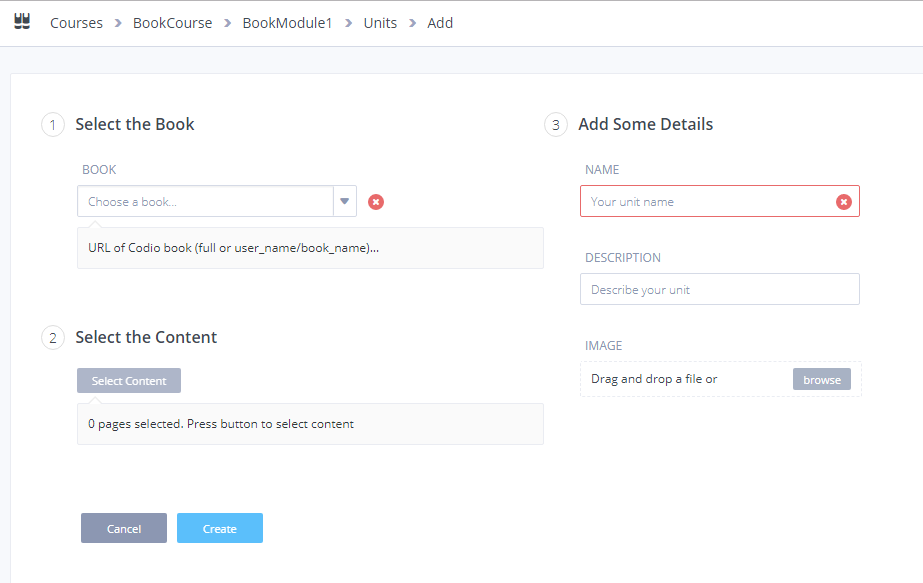
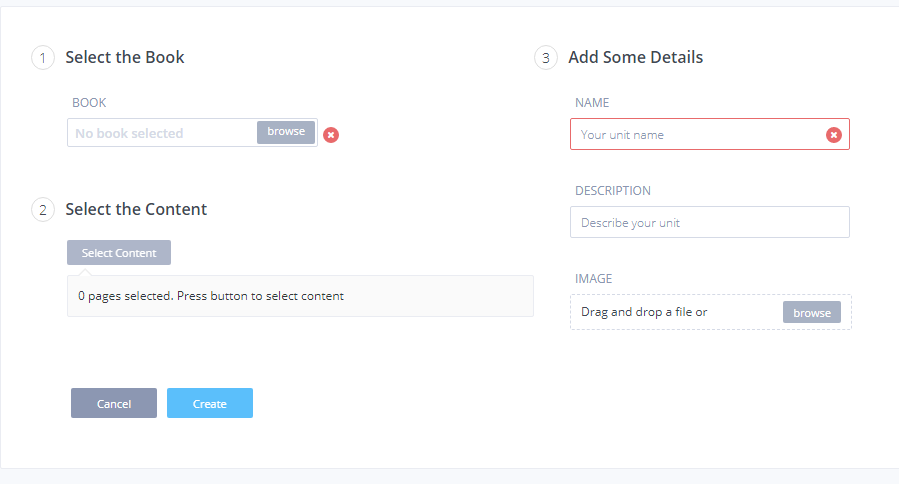
#9228 #9283 #9171 #9172 #9044

diff --git a/source/docs/content/authoring/settings-actions/global.html.md b/source/docs/content/authoring/settings-actions/global.html.md
@@ -6,6 +6,8 @@ full_width: true
 
 The settings on this page apply to the entire guide or book.
 
+<img alt="Global settings" src="/img/docs/globalsettings.png" class="simple"/>
+
 ### Scripts
 This allows you to include the path and file name of a script file from a page using an HTML `<src>` tag. Provide one script path per line.
 
@@ -28,3 +30,11 @@ Hides the Codio menu. You should be aware that this will prohibit access to func
 Allows students to close the guide content. The content can be restarted by selecting the 'start guide' icon in the file tree:
 <img alt="StartGuides" src="/img/docs/guides/startguides.png" class="simple"/>
 
+### Use Mark as Complete
+Enabled by default and will show students a button at the end of the unit, from their [dashboard](/docs/dashboard/student/myclassroom/) and from **Education** menu in the IDE they can select to mark as complete.
+If you have set the [Unit Duration](/docs/classes/unitmanagement/settings-info/unit-duration/) 'On Unit End' action to mark as complete or disable and mark as complete, the unit will automatically be marked as complete when the end date/time of the unit is reached and you can elect to suppress the ability for students to have to mark their units as complete by disabling this setting
+
+
+### Use Submit Buttons
+Enabled by default and shows students a button for [assessments](/docs/content/authoring/assessments/) for them to submit their answers.
+If you have set the [Unit Duration](/docs/classes/unitmanagement/settings-info/unit-duration/), when the end of unit duration date/time is reached, all answers to the assessments will be automatically submitted

diff --git a/source/docs/misc/changelog.html.md b/source/docs/misc/changelog.html.md
@@ -13,6 +13,11 @@ We do not report small bug fixes or issues that affect individual users, who we 
 
 **November 2017**
 
+- `[I] [28th]`: Fix XSS image issue
+- `[I] [28th]`: Improve handling of teachers joining class as student through LTI
+- `[I] [28th]`: Simplify [creation of book based units](/docs/courses/units/unit-add/#createbook)
+- `[I] [28th]`: Update [Unit Duration](/docs/classes/unitmanagement/settings-info/unit-duration/)
+- `[I] [28th]`: Update Guides [global](/docs/content/authoring/settings-actions/global) settings
 - `[F] [27th]`: Add functionality to change/review [JUnit](/docs/ide/features/junit/) timeout settings
 - `[F] [24th]`: [Unit Penalties](/docs/classes/unitmanagement/settings-info/penalties) to allow teachers/instructors to specify grading deadlines and associated penalties
 - `[I] [24th]`: Update Book publishing to allow pages to be selected

diff --git a/source/docs/classes/unitmanagement/settings-info/unit-duration.html.md b/source/docs/classes/unitmanagement/settings-info/unit-duration.html.md
@@ -6,7 +6,7 @@ full_width: true
 
 You can specify a start and a stop date and time for a unit. The unit will be disabled prior to the start date at which point it becomes available to students in their dashboard. 
 
-Once the stop date and time is reached then the unit will be disabled and, depending on your [disabled Unit settings](/docs/classes/unitmanagement/settings-info/disable) students will either be refused all access or can have read-only access to the Unit.
+Once the stop date and time is reached you can set the unit to be marked as complete and/or disabled. If you elect to disable access, then depending on your [disabled Unit settings](/docs/classes/unitmanagement/settings-info/disable) students will either be refused all access or can have read-only access to the Unit.
 
 This feature is accessible via the main settings tab.
 

diff --git a/source/docs/courses/units/unit-add.html.md b/source/docs/courses/units/unit-add.html.md
@@ -37,7 +37,8 @@ Creating a new book unit involves pointing to the parts of a book that you want 
 
 You can now 
 
-- specify the book you want to reference
+- specify the book you want to reference. Browse to the books available to you
+<img alt="Book browse" src="/img/docs/selectbook.png" class="simple"/>
 - select the parts of the book you want to include in this unit
 - give the unit a name.
 
